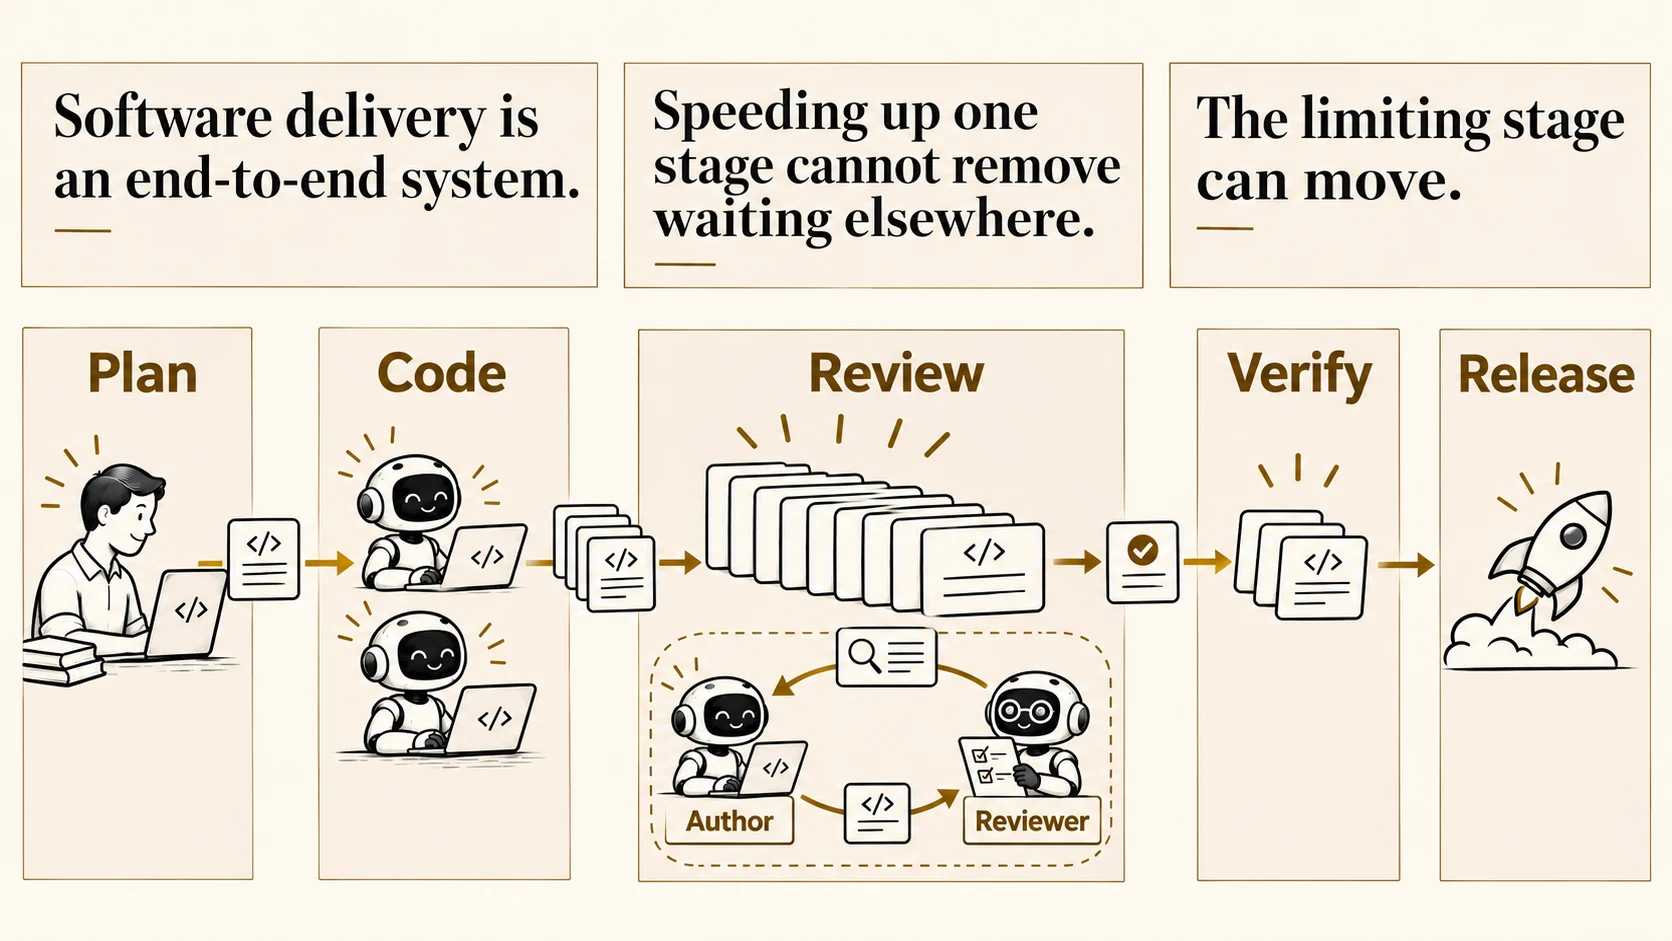
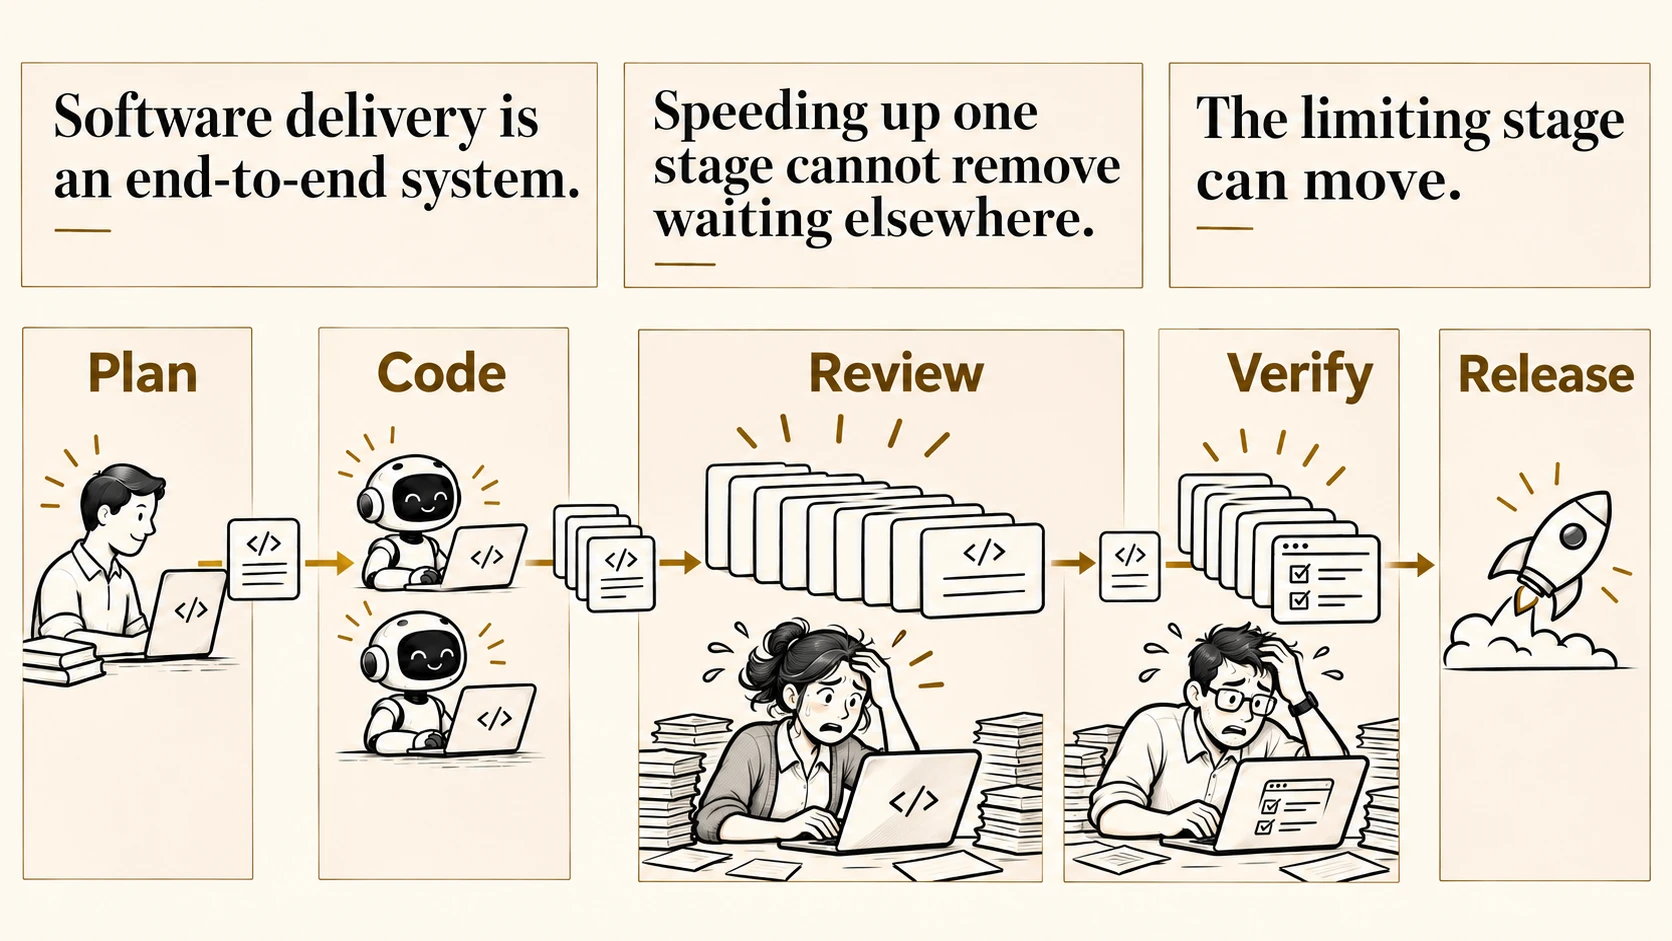
style(slides): show human bottleneck queues

diff --git a/media/README.md b/media/README.md
@@ -30,22 +30,28 @@ change. Keep text accurate, legible, and sparse. No title or slogan.
 
 ## sdlc-bottlenecks.webp
 
-The SDLC pipeline illustrates how accelerating implementation can expose
-review or verification as the next constraint. It is used on rule 08, “Identify
+The SDLC pipeline illustrates coding agents accelerating implementation while
+human queues build at both Review and Verify. It is used on rule 08, “Identify
 and remove bottlenecks”. The graphic frames Amdahl’s law as an analogy for
-end-to-end delivery and pairs with concrete examples on the practice slide.
+end-to-end delivery; the following practice slide shows possible interventions.
 
 ```text
-Create a new 16:9 landscape presentation illustration in the deck's editorial
+Create a 16:9 landscape presentation illustration in the deck's editorial
 style: flat ivory canvas, square warm-stone panels, near-black pen-and-ink
-linework, restrained gold hairline borders and arrows, Bodoni-like serif
-headings, legible Montserrat-like labels, and a small friendly robot. Show a
-left-to-right software delivery pipeline: Plan, Code, Review, Verify, Release.
-Coding agents speed up Code, creating a visible queue at Review. A compact
-Author/Reviewer agent loop responds to findings and resubmits a change. Show a
-smaller queue at Verify to suggest that the limiting stage can move downstream.
-Use sparse readable labels, generous spacing, and no overall slide title,
-footer caption, gradients, rounded cards, bright colours, or watermark.
+linework, restrained gold borders and arrows, serif headings, legible labels.
+Add three spacious text panels across the top: "Software delivery is an
+end-to-end system.", "Speeding up one stage cannot remove waiting elsewhere.",
+and "The limiting stage can move." Under them show a left-to-right pipeline
+labelled Plan, Code, Review, Verify, Release. Keep a human at Plan and coding
+agent robots quickly producing code at Code. Show a growing pull-request queue
+at Review and one clearly human reviewer, visibly flustered and overwhelmed by
+the backlog. Show a second growing queue at Verify and a second clearly human
+person, visibly flustered while manually checking browser behaviour and tests.
+The two queues coexist to show that more coding capacity can leave Review and
+Verify overloaded. Finish with a Release rocket. This is only the problem state;
+do not show an author/reviewer agent loop, automation, or any remedy. Keep text
+accurate, balanced, and readable, with generous spacing. No footer, gradients,
+rounded cards, bright colours, logos, or watermark.
 ```
 
 ## bottleneck-examples.webp
